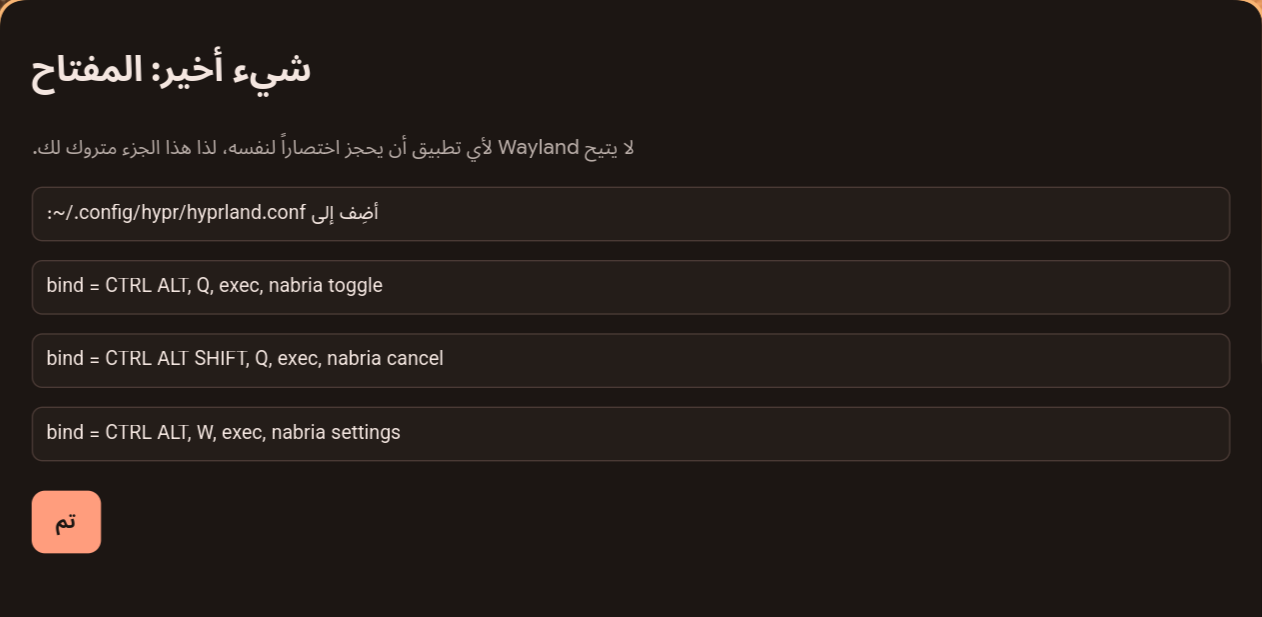
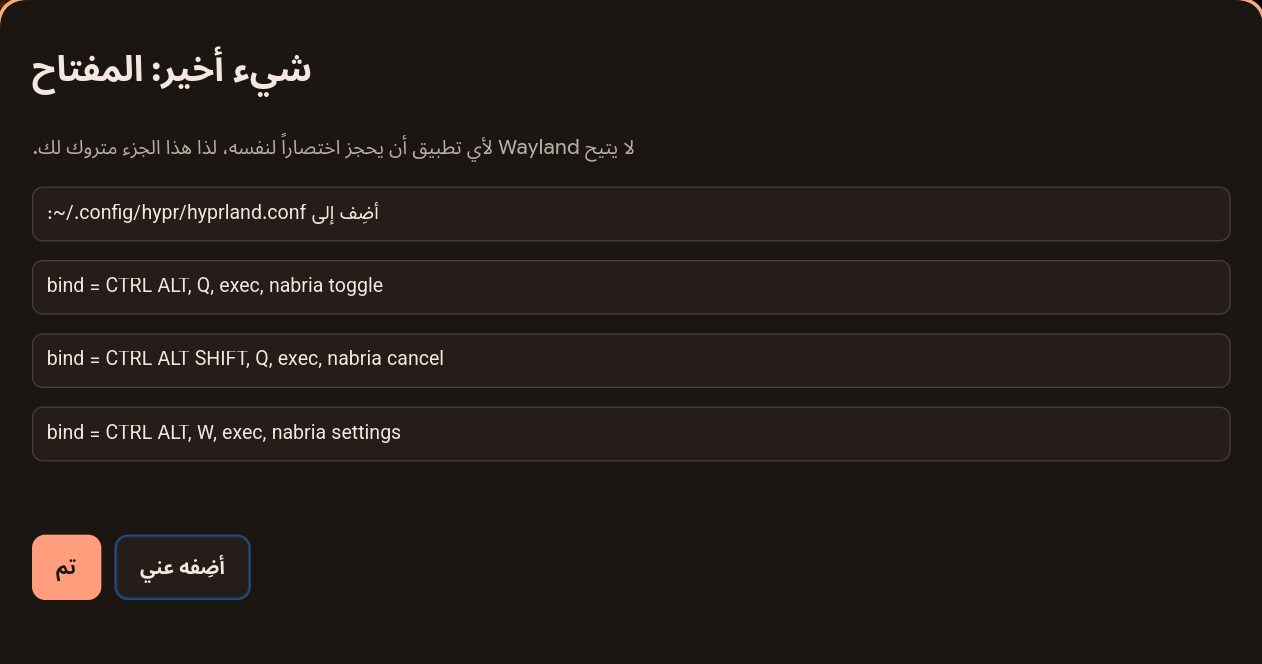
Wait for the page, not for a fixed time, before photographing it
The capture settled for a fixed three quarters of a second, which was enough
on an idle machine and not on a busy one: with a container build and a large
download running, the stack's slide animation had not finished when grim
fired, and the shortcut page was photographed still showing the welcome page.
Right size, right title, right filename, wrong picture, no error — the third
variant of this failure in one evening.

It now waits for the condition rather than for a duration: the stack reports
the requested child visible and no transition running, or the notebook
reports the requested page. Waiting for a length of time is guessing about a
machine; waiting for GTK to say it is done is not.

Screenshots regenerated, including the new "Add it for me" button.

diff --git a/scripts/capture.py b/scripts/capture.py
@@ -175,17 +175,32 @@ def hide_pointer():
                    capture_output=True)
 
 
-def settle():
-    """Let the window actually reach the screen.
+def settle(ready=None, tries=40):
+    """Let the window actually reach the screen, and the page reach the window.
 
     present() only asks. Turning the main loop alone is not enough -- the
     compositor has its own frame to draw -- so this alternates between the two
     rather than sleeping once and hoping.
+
+    `ready` is the thing being waited *for*, rather than a length of time. A
+    fixed wait was enough on an idle machine and not on a busy one: with a
+    container build and a large download running, the stack's slide animation
+    had not finished when grim fired and the shortcut page was photographed
+    still showing the welcome page. Correct size, correct title, wrong
+    picture, no error.
     """
-    for _ in range(3):
+    for _ in range(tries):
         while GLib.MainContext.default().iteration(False):
             pass
-        time.sleep(0.25)
+        time.sleep(0.1)
+        if ready is None or ready():
+            # One more turn after the condition holds: it goes true when GTK
+            # has decided, which is before the frame carrying it is drawn.
+            time.sleep(0.2)
+            while GLib.MainContext.default().iteration(False):
+                pass
+            return True
+    return False
 
 
 def shoot(app):
@@ -209,10 +224,17 @@ def capture_all(app):
             window = wizard.Wizard(app, dict(settings), lambda: None)
             window.present()
             window.stack.set_visible_child_name(page)
+            stack = window.stack
+            def showing(stack=stack, page=page):
+                return (stack.get_visible_child_name() == page
+                        and not stack.get_transition_running())
         else:
             window = settings_window.SettingsWindow(app, dict(settings), lambda *a: None)
             window.present()
-            window.get_child().set_current_page(int(page))
+            notebook = window.get_child()
+            notebook.set_current_page(int(page))
+            def showing(notebook=notebook, page=page):
+                return notebook.get_current_page() == int(page)
 
         # Unique, and set after the window is built so it overrides whatever
         # the window titled itself. Every wizard page is one window class with
@@ -222,7 +244,11 @@ def capture_all(app):
         # unmapped. Four of the six pictures were of the wrong page.
         title = "Nabria capture: " + stem
         window.set_title(title)
-        settle()
+        if not settle(showing):
+            print("  ! " + stem + ": the page never came up", file=sys.stderr)
+            failed = True
+            window.destroy()
+            continue
         geometry = geometry_of(title)
         if geometry is None:
             print("  ! " + stem + ": the window never appeared", file=sys.stderr)
